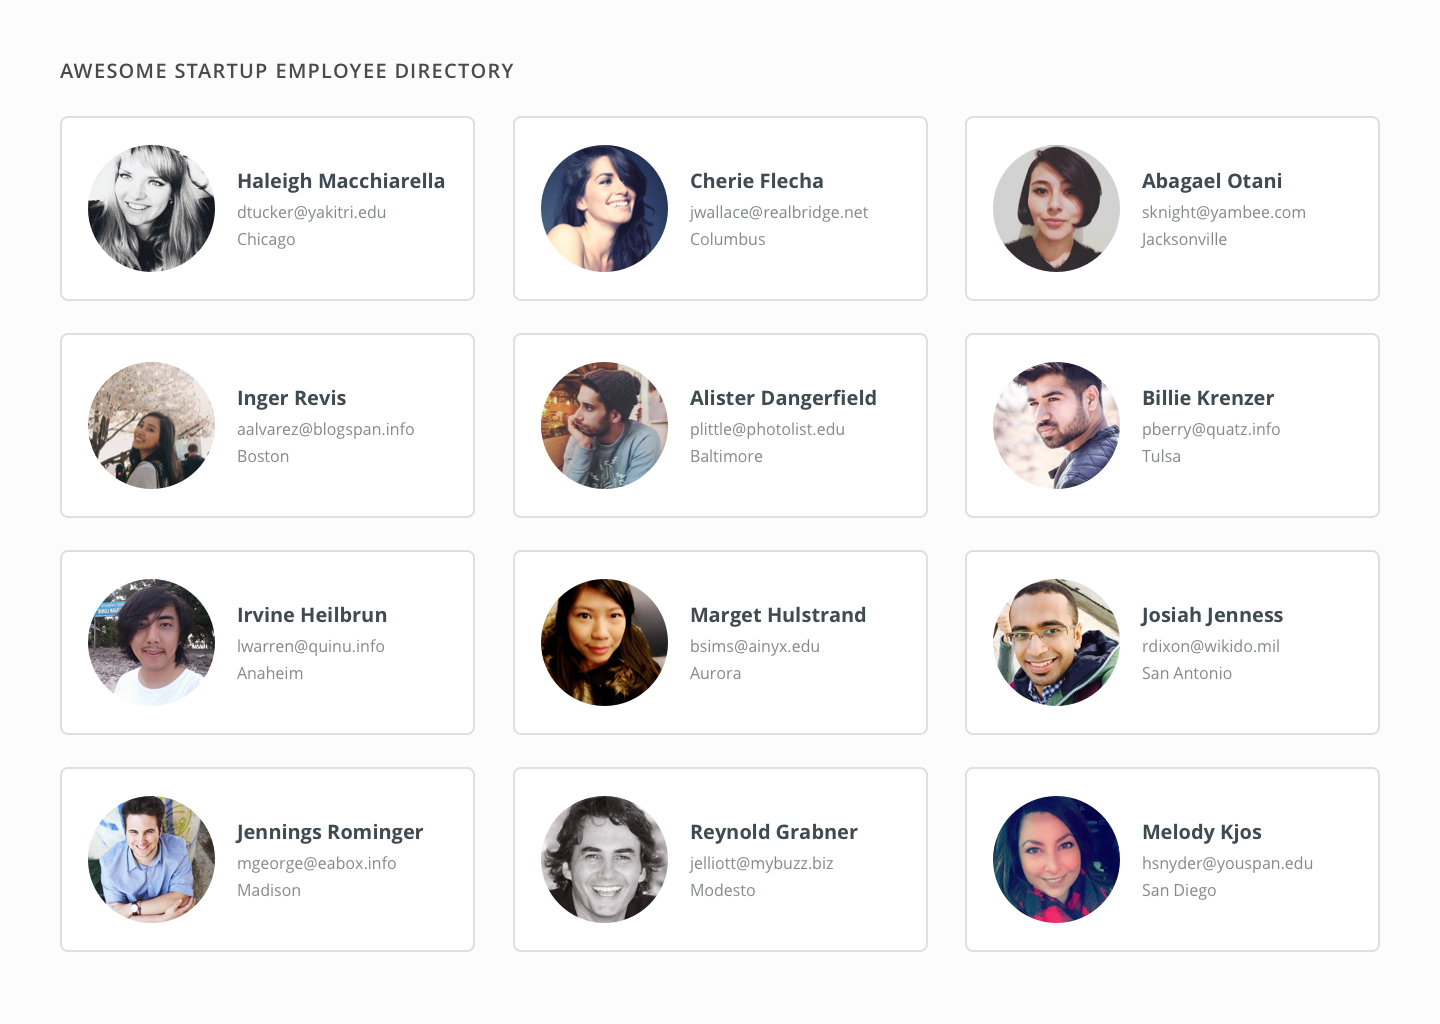
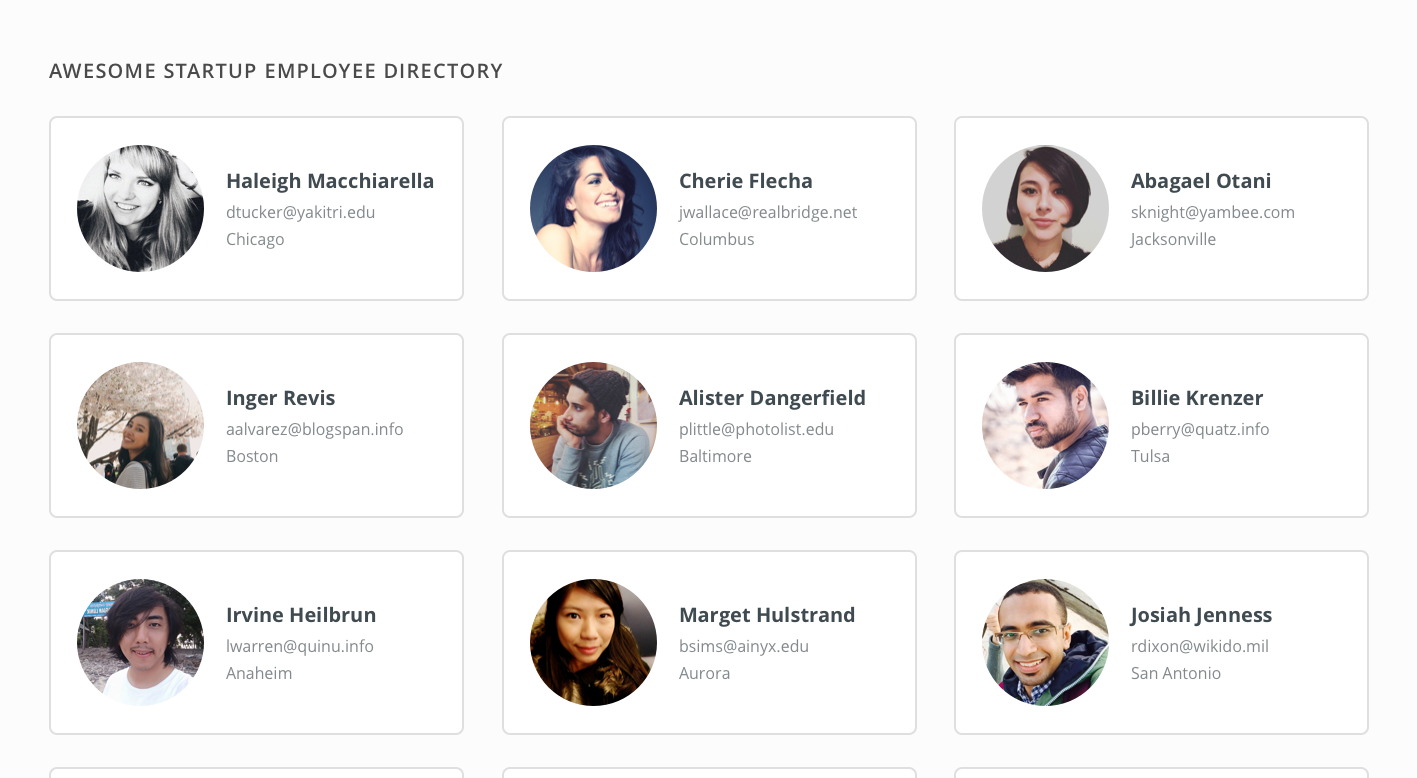
Replaced image with smaller version

diff --git a/src/index.scss b/src/index.scss
@@ -11,6 +11,8 @@ $link-color: hsl(150, 64%, 63%);
 
 $radius: 5px;
 
+$section-padding: 9.5rem;
+
 // Update Bulma's global variables
 $link: black;
 $navbar-z: auto;
@@ -45,7 +47,7 @@ $navbar-height: 2.7rem;
 }
 
 .bulma-logo {
-	max-width: 12em;
+	max-width: 10em;
 }
 
 // Custom colors
@@ -64,6 +66,7 @@ $navbar-height: 2.7rem;
 .card {
 	transition: all 0.5s ease; /* back to normal */
 	border: 1px solid $white;
+	border-radius: 4px;
 }
 
 .card:hover {
@@ -78,16 +81,16 @@ $navbar-height: 2.7rem;
 // Grid for skills section
 .grid {
 	display: grid;
-	grid-template-columns: repeat(auto-fill, minmax(225px, 1fr));
-	grid-gap: 0.2rem;
+	grid-template-columns: repeat(auto-fill, minmax(250px, 1fr));
+	grid-gap: 0.5rem;
 	align-items: flex-start;
 }
 
 .grid-cards {
 	display: grid;
-	grid-template-columns: repeat(auto-fill, minmax(250px, 1fr));
+	grid-template-columns: repeat(auto-fill, minmax(275px, 1fr));
 	grid-gap: 3rem;
-	align-items: flex-start;
+	align-items: center;
 }
 
 .grid-gab {

diff --git a/src/sections/main-content/projects/Projects.js b/src/sections/main-content/projects/Projects.js
@@ -5,7 +5,7 @@ import employeeDirectoryIMG from '../../../images/portfolio/employee_directory.p
 
 const Projects = () => {
 	return (
-		<div className='section'>
+		<div className='section pt-0'>
 			<h1
 				className='title is-1 has-text-centered mt-6 mb-6 is-uppercase'
 				id='projects'>
